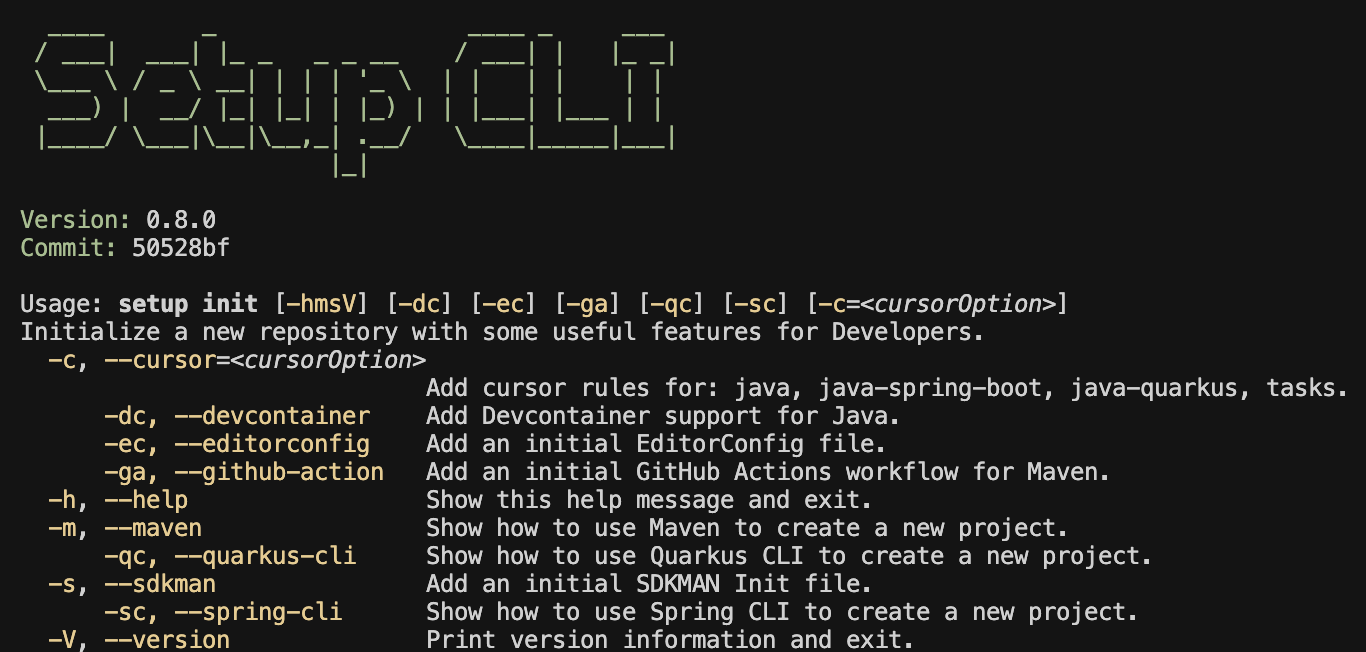
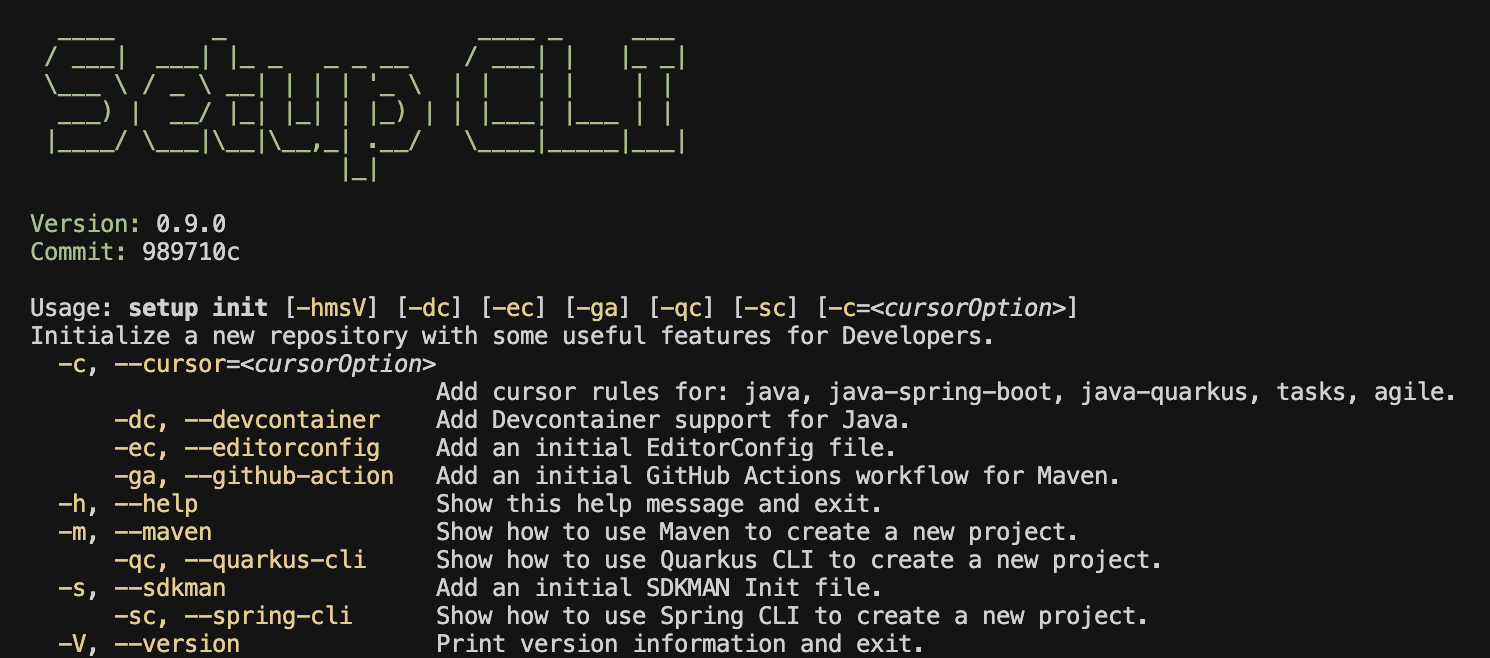
Adding agile cursor rules (#53)

Changed region(s): [[0.0, 0.4294, 0.9839, 1.0], [0.0307, 0.0307, 0.4919, 0.2761], [0.0, 0.3067, 0.1845, 0.3988]]

diff --git a/src/main/java/info/jab/cli/behaviours/Cursor.java b/src/main/java/info/jab/cli/behaviours/Cursor.java
@@ -17,6 +17,7 @@ public class Cursor implements Behaviour1 {
 
     private static final String CURSOR_RULES_JAVA_PATH = "cursor-rules-java/";
     private static final String CURSOR_RULES_TASKS_PATH = "cursor-rules-tasks/";
+    private static final String CURSOR_RULES_AGILE_PATH = "cursor-rules-agile/";
 
     // Instantiate CopyFiles
     private final CopyFiles copyFiles;
@@ -58,6 +59,8 @@ public class Cursor implements Behaviour1 {
             "1000-create-prd.mdc",
             "1001-generate-tasks-from-prd.mdc",
             "1002-task-list.mdc");
+        List<String> ruleAgileFiles = List.of(
+            "2000-agile-user-story.mdc");
 
         //Spring Boot support (Alpha)
         if(parameter.equals("java-spring-boot")) {
@@ -75,6 +78,8 @@ public class Cursor implements Behaviour1 {
 
             if(parameter.equals("tasks")) {
                 copyFiles.copyFilesToDirectory(ruleProcessesFiles, CURSOR_RULES_TASKS_PATH, rulesPath);
+            } else if(parameter.equals("agile")) {
+                copyFiles.copyFilesToDirectory(ruleAgileFiles, CURSOR_RULES_AGILE_PATH, rulesPath);
             } else {
                 copyFiles.copyFilesToDirectory(ruleJavaFiles, CURSOR_RULES_JAVA_PATH, rulesPath);
             }

diff --git a/src/test/java/info/jab/cli/CursorOptionsTest.java b/src/test/java/info/jab/cli/CursorOptionsTest.java
@@ -14,7 +14,7 @@ class CursorOptionsTest {
     void testIterator() {
         // Given
         CursorOptions cursorOptions = new CursorOptions();
-        List<String> expectedValues = List.of("java", "java-spring-boot", "java-quarkus", "tasks");
+        List<String> expectedValues = List.of("java", "java-spring-boot", "java-quarkus", "tasks", "agile");
 
         // When
         Iterator<String> iterator = cursorOptions.iterator();
@@ -34,6 +34,7 @@ class CursorOptionsTest {
         String validSpringBoot = "java-spring-boot";
         String validQuarkus = "java-quarkus";
         String validTasks = "tasks";
+        String validAgile = "agile";
         String invalidOption = "invalid-option";
         String emptyOption = "";
 
@@ -43,6 +44,7 @@ class CursorOptionsTest {
         assertThat(CursorOptions.isValidOption(validSpringBoot)).isTrue();
         assertThat(CursorOptions.isValidOption(validQuarkus)).isTrue();
         assertThat(CursorOptions.isValidOption(validTasks)).isTrue();
+        assertThat(CursorOptions.isValidOption(validAgile)).isTrue();
         assertThat(CursorOptions.isValidOption(invalidOption)).isFalse();
         assertThat(CursorOptions.isValidOption(emptyOption)).isFalse();
     }

diff --git a/src/test/java/info/jab/cli/behaviours/CursorTest.java b/src/test/java/info/jab/cli/behaviours/CursorTest.java
@@ -97,4 +97,32 @@ class CursorTest {
             .contains("Cursor rules added successfully");
         verify(mockCopyFiles).copyFilesToDirectory(any(), eq("cursor-rules-java/"), any(Path.class));
     }
+
+    @Test
+    void testExecuteWithTasksParam() {
+        // Given
+        Mockito.doNothing().when(mockCopyFiles).copyFilesToDirectory(any(), anyString(), any(Path.class));
+
+        // When
+        cursor.execute("tasks");
+
+        // Then
+        assertThat(outputStreamCaptor.toString(StandardCharsets.UTF_8).trim())
+            .contains("Cursor rules added successfully");
+        verify(mockCopyFiles).copyFilesToDirectory(any(), eq("cursor-rules-tasks/"), any(Path.class));
+    }
+
+    @Test
+    void testExecuteWithAgileParam() {
+        // Given
+        Mockito.doNothing().when(mockCopyFiles).copyFilesToDirectory(any(), anyString(), any(Path.class));
+
+        // When
+        cursor.execute("agile");
+
+        // Then
+        assertThat(outputStreamCaptor.toString(StandardCharsets.UTF_8).trim())
+            .contains("Cursor rules added successfully");
+        verify(mockCopyFiles).copyFilesToDirectory(any(), eq("cursor-rules-agile/"), any(Path.class));
+    }
 }

diff --git a/src/main/java/info/jab/cli/CursorOptions.java b/src/main/java/info/jab/cli/CursorOptions.java
@@ -11,7 +11,8 @@ public class CursorOptions implements Iterable<String> {
         "java",
         "java-spring-boot",
         "java-quarkus",
-        "tasks");
+        "tasks",
+        "agile");
 
     @Override
     public Iterator<String> iterator() {

diff --git a/README.md b/README.md
@@ -12,9 +12,11 @@ sdk env install
 # Update cursor rules in local
 ./load-remove-git-submodules-cursor-rules-java.sh r
 ./load-remove-git-submodules-cursor-rules-tasks.sh r
+./load-remove-git-submodules-cursor-rules-agile.sh r
 touch .gitmodules
 ./load-remove-git-submodules-cursor-rules-java.sh c
 ./load-remove-git-submodules-cursor-rules-tasks.sh c
+./load-remove-git-submodules-cursor-rules-agile.sh c
 
 # Setup cli
 ./mvnw clean validate -U
@@ -28,7 +30,7 @@ jwebserver -p 8000 -d "$(pwd)/target/site/jacoco"
 ./mvnw versions:display-plugin-updates
 ./mvnw versions:display-property-updates
 
-./mvnw versions:set -DnewVersion=0.8.0
+./mvnw versions:set -DnewVersion=0.9.0
 ./mvnw versions:commit
 ```
 
@@ -36,22 +38,23 @@ jwebserver -p 8000 -d "$(pwd)/target/site/jacoco"
 
 ```bash
 ./mvnw clean package
-java -jar ./target/setup-0.8.0.jar
-java -jar ./target/setup-0.8.0.jar --help
-java -jar ./target/setup-0.8.0.jar init
-java -jar ./target/setup-0.8.0.jar init --help
-java -jar ./target/setup-0.8.0.jar init --devcontainer
-java -jar ./target/setup-0.8.0.jar init --cursor java
-java -jar ./target/setup-0.8.0.jar init --cursor tasks
-java -jar ./target/setup-0.8.0.jar init --cursor java-spring-boot
-java -jar ./target/setup-0.8.0.jar init --cursor java-quarkus
-java -jar ./target/setup-0.8.0.jar init --maven
-java -jar ./target/setup-0.8.0.jar init --spring-cli
-java -jar ./target/setup-0.8.0.jar init --quarkus-cli
-java -jar ./target/setup-0.8.0.jar init --github-action
-java -jar ./target/setup-0.8.0.jar init --editorconfig
-java -jar ./target/setup-0.8.0.jar init --sdkman
-jar tf ./target/setup-0.8.0.jar
+java -jar ./target/setup-0.9.0.jar
+java -jar ./target/setup-0.9.0.jar --help
+java -jar ./target/setup-0.9.0.jar init
+java -jar ./target/setup-0.9.0.jar init --help
+java -jar ./target/setup-0.9.0.jar init --devcontainer
+java -jar ./target/setup-0.9.0.jar init --cursor java
+java -jar ./target/setup-0.9.0.jar init --cursor tasks
+java -jar ./target/setup-0.9.0.jar init --cursor agile
+java -jar ./target/setup-0.9.0.jar init --cursor java-spring-boot
+java -jar ./target/setup-0.9.0.jar init --cursor java-quarkus
+java -jar ./target/setup-0.9.0.jar init --maven
+java -jar ./target/setup-0.9.0.jar init --spring-cli
+java -jar ./target/setup-0.9.0.jar init --quarkus-cli
+java -jar ./target/setup-0.9.0.jar init --github-action
+java -jar ./target/setup-0.9.0.jar init --editorconfig
+java -jar ./target/setup-0.9.0.jar init --sdkman
+jar tf ./target/setup-0.9.0.jar
 ```
 
 ## How to use from Jbang
@@ -68,6 +71,7 @@ jbang setup@jabrena
 - https://docs.cursor.com/context/rules-for-ai
 - https://github.com/jabrena/cursor-rules-java
 - https://github.com/jabrena/cursor-rules-tasks
+- https://github.com/jabrena/cursor-rules-agile
 - https://github.com/jabrena/jbang-catalog
 
 ### Developer links

diff --git a/CHANGELOG.md b/CHANGELOG.md
@@ -5,6 +5,12 @@ All notable changes to this project will be documented in this file.
 The format is based on [Keep a Changelog](https://keepachangelog.com/en/1.1.0/),
 and this project adheres to [Semantic Versioning](https://semver.org/spec/v2.0.0.html).
 
+## [0.9.0]
+
+### Added
+
+- Added initial cursor rules for Agile.
+
 ## [0.8.0]
 
 ### Added
